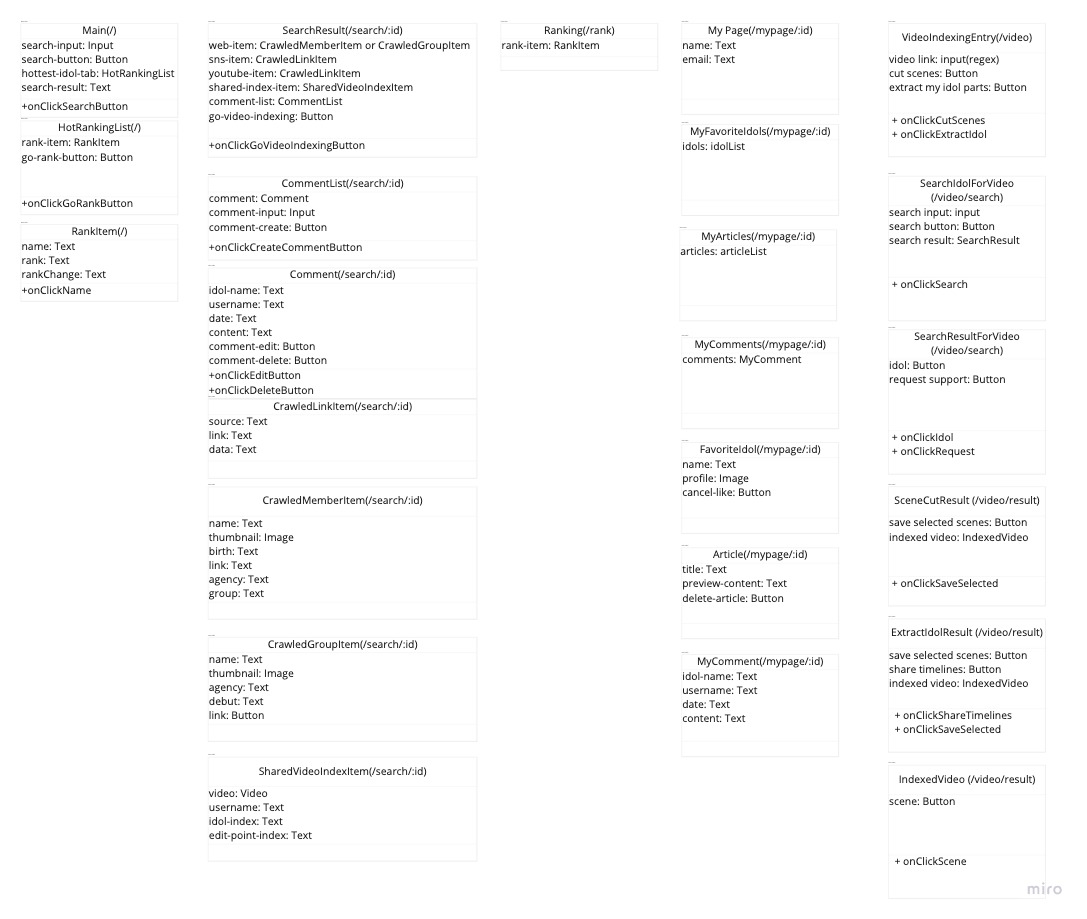
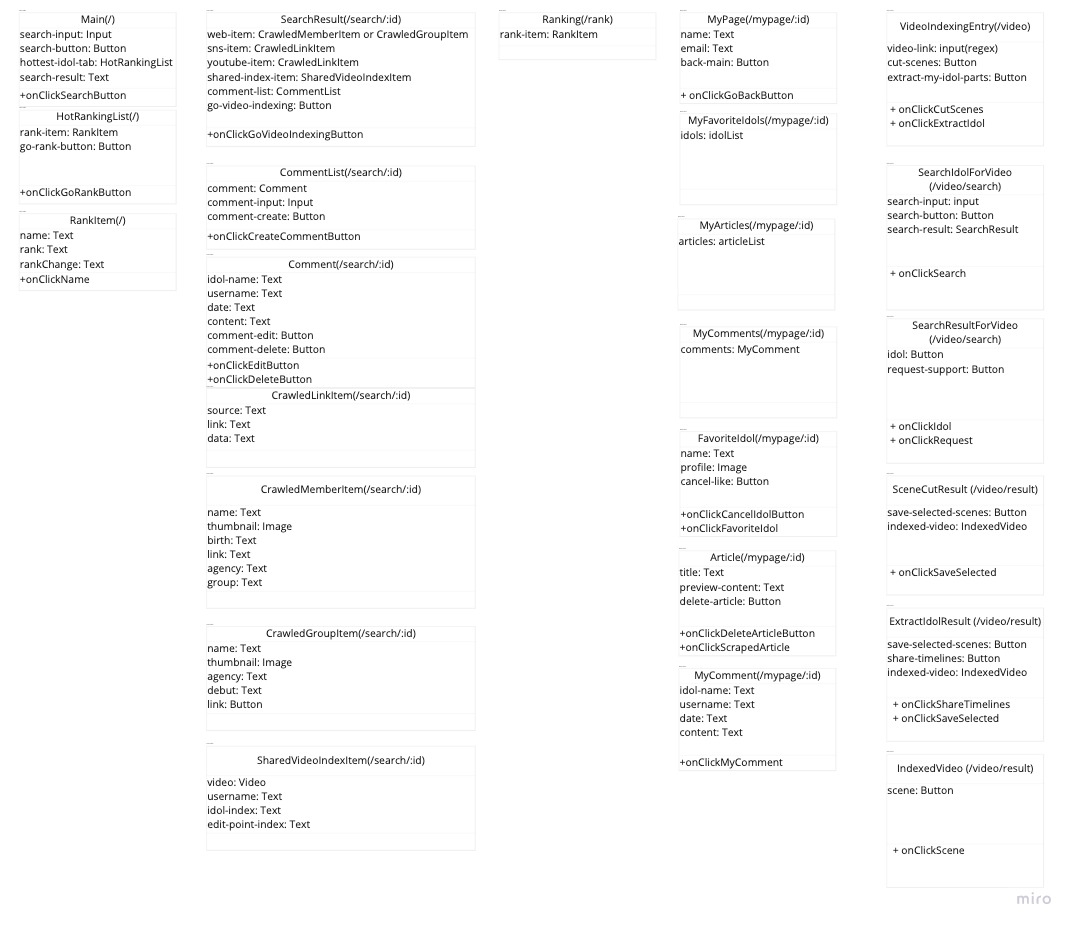
add frontend algorithms

diff --git a/Design and planning.md b/Design and planning.md
@@ -2,7 +2,7 @@
 
 
 
-## **Member ** <br />
+## **Member**
 
 Eunbin Kang, Sohyun Kim, Jiho Kim, Youngchae Yoon
 
@@ -215,11 +215,20 @@ The functionality and requirement for each page are as follows:
 
 Tables below are the frontend components. The attributes and the methods of each component are listed in each box.
 
-![Frontend Component](https://user-images.githubusercontent.com/20149216/139463670-22b0e567-3329-4344-82c2-dbabf30ae8b3.jpg)
+![Frontend Component](https://user-images.githubusercontent.com/20149216/139467203-4e348779-9c88-4585-96a9-157200613508.jpg)
 
 ### **Frontend Algorithms** <br />
 
-
+1. MyPage
+   - onClickBackButton() : Redirect to `Main Page('/')`
+2. FavoriteIdol
+   - onClickCancelIdolButton() : Call backend API(DELETE /:user_id/idols/:idol_id) and redirect to `My Page(/mypage/:id)`
+   - onClickFavoriteIdol() : Redirect to `Search Result Page('/search/:id')` of selected Idol.
+3. Article
+   - onClickDeleteArticleButton(): Call backend API(DELETE /:user_id/articles/:article_id) and redirect to `My Page(/mypage/:id)`
+   - onClickScrapedArticle(): Redirect to `Search Result Page('/search/:id')` of selected article.
+4. MyComment
+   - onClickMyComment(): Redirect to `Search Result Page('/search/:id')` where my comment at. 
 
 ### **Backend Design** <br />
 
